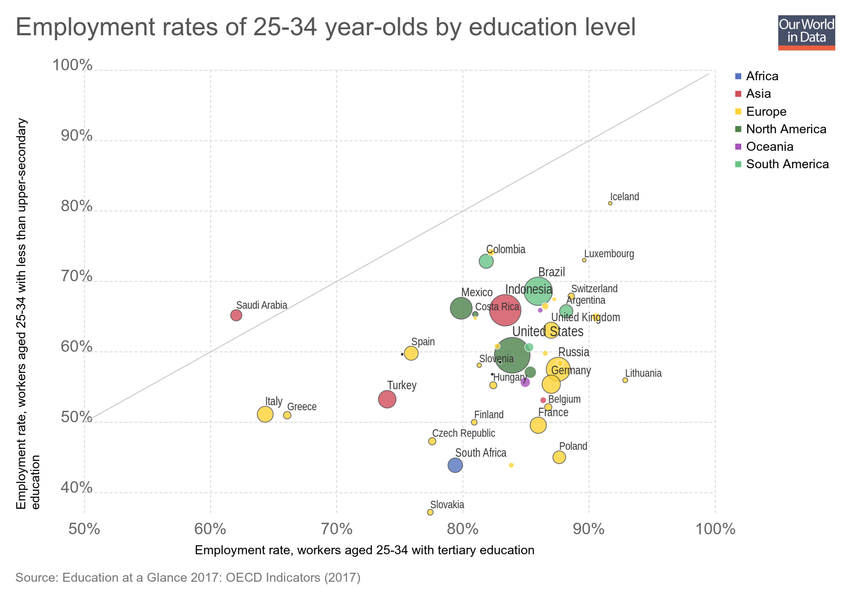
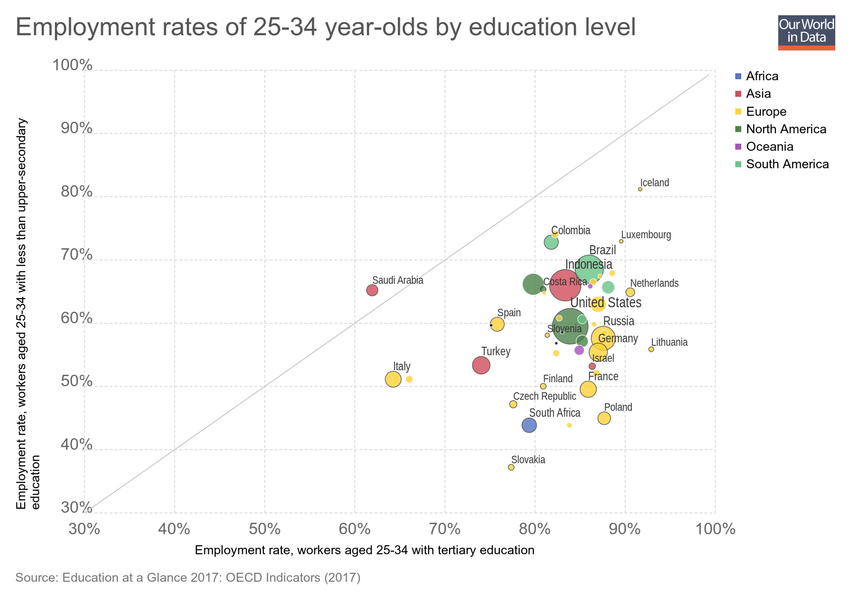
Updating chart employment-rates-with-tertiary-vs-below-upper-secondary-education

diff --git a/grapher/employment-rates-with-tertiary-vs-below-upper-secondary-education.html b/grapher/employment-rates-with-tertiary-vs-below-upper-secondary-education.html
@@ -1,4 +1,4 @@
-<!doctype html><html><head><meta name="viewport" content="width=device-width, initial-scale=1" /><title>Employment rates of 25-34 year-olds by education level - Our World in Data</title><meta name="description" content="An interactive visualization from Our World in Data." /><link rel="canonical" href="https://ourworldindata.org/grapher/employment-rates-with-tertiary-vs-below-upper-secondary-education" /><meta property="fb:app_id" content="1149943818390250" /><meta property="og:url" content="https://ourworldindata.org/grapher/employment-rates-with-tertiary-vs-below-upper-secondary-education" /><meta property="og:title" content="Employment rates of 25-34 year-olds by education level" /><meta property="og:description" content="An interactive visualization from Our World in Data." /><meta property="og:image" content="https://ourworldindata.org/grapher/exports/employment-rates-with-tertiary-vs-below-upper-secondary-education.png?v=14" /><meta property="og:image:width" content="850" /><meta property="og:image:height" content="600" /><meta property="og:site_name" content="Our World in Data" /><meta name="twitter:card" content="summary_large_image" /><meta name="twitter:site" content="@OurWorldInData" /><meta name="twitter:creator" content="@OurWorldInData" /><meta name="twitter:title" content="Employment rates of 25-34 year-olds by education level" /><meta name="twitter:description" content="An interactive visualization from Our World in Data." /><meta name="twitter:image" content="https://ourworldindata.org/grapher/exports/employment-rates-with-tertiary-vs-below-upper-secondary-education.png?v=14" /><style>
+<!doctype html><html><head><meta name="viewport" content="width=device-width, initial-scale=1" /><title>Employment rates of 25-34 year-olds by education level - Our World in Data</title><meta name="description" content="An interactive visualization from Our World in Data." /><link rel="canonical" href="https://ourworldindata.org/grapher/employment-rates-with-tertiary-vs-below-upper-secondary-education" /><meta property="fb:app_id" content="1149943818390250" /><meta property="og:url" content="https://ourworldindata.org/grapher/employment-rates-with-tertiary-vs-below-upper-secondary-education" /><meta property="og:title" content="Employment rates of 25-34 year-olds by education level" /><meta property="og:description" content="An interactive visualization from Our World in Data." /><meta property="og:image" content="https://ourworldindata.org/grapher/exports/employment-rates-with-tertiary-vs-below-upper-secondary-education.png?v=15" /><meta property="og:image:width" content="850" /><meta property="og:image:height" content="600" /><meta property="og:site_name" content="Our World in Data" /><meta name="twitter:card" content="summary_large_image" /><meta name="twitter:site" content="@OurWorldInData" /><meta name="twitter:creator" content="@OurWorldInData" /><meta name="twitter:title" content="Employment rates of 25-34 year-olds by education level" /><meta name="twitter:description" content="An interactive visualization from Our World in Data." /><meta name="twitter:image" content="https://ourworldindata.org/grapher/exports/employment-rates-with-tertiary-vs-below-upper-secondary-education.png?v=15" /><style>
         html, body {
             height: 100%;
             margin: 0;
@@ -20,8 +20,8 @@
         }
     </style><noscript><style>
                     figure { display: none !important; }
-                </style></noscript><link rel="stylesheet" href="https://ourworldindata.org/grapher/assets/commons.bundle.b9f051796dbbbb7e5139.css" /><link rel="preload" href="/grapher/data/variables/97775+97778+72+123.json?v=14" as="fetch" crossorigin /></head><body class="singleChart"><figure data-grapher-src="/grapher/employment-rates-with-tertiary-vs-below-upper-secondary-education"></figure><noscript id="fallback"><img src="/grapher/exports/employment-rates-with-tertiary-vs-below-upper-secondary-education.svg" /><p>Interactive visualization requires JavaScript</p></noscript><script src="https://cdn.polyfill.io/v2/polyfill.min.js?features=es6,fetch"></script><script src="https://ourworldindata.org/grapher/assets/commons.bundle.b9f051796dbbbb7e5139.js"></script><script src="https://ourworldindata.org/grapher/assets/charts.bundle.b9f051796dbbbb7e5139.js"></script><script>
-        var jsonConfig = {"id":2949,"map":{"projection":"World","colorSchemeLabels":[],"colorSchemeValues":[],"customNumericColors":[],"customCategoryColors":{},"customCategoryLabels":{},"customHiddenCategories":{}},"tab":"chart","slug":"employment-rates-with-tertiary-vs-below-upper-secondary-education","type":"ScatterPlot","title":"Employment rates of 25-34 year-olds by education level","xAxis":{"max":100,"min":50,"scaleType":"linear"},"yAxis":{"max":100,"min":50,"scaleType":"linear"},"version":14,"hasMapTab":false,"stackMode":"absolute","dimensions":[{"display":{"name":"Employment rate, workers aged 25-34 with less than upper-secondary education"},"property":"y","variableId":97775},{"display":{"name":"Employment rate, workers aged 25-34 with tertiary education"},"property":"x","variableId":97778},{"display":{},"property":"size","variableId":72},{"display":{},"property":"color","variableId":123}],"hasChartTab":true,"isPublished":true,"selectedData":[],"comparisonLine":{},"hideTitleAnnotation":true};
+                </style></noscript><link rel="stylesheet" href="https://ourworldindata.org/grapher/assets/commons.bundle.b9f051796dbbbb7e5139.css" /><link rel="preload" href="/grapher/data/variables/97775+97778+72+123.json?v=15" as="fetch" crossorigin /></head><body class="singleChart"><figure data-grapher-src="/grapher/employment-rates-with-tertiary-vs-below-upper-secondary-education"></figure><noscript id="fallback"><img src="/grapher/exports/employment-rates-with-tertiary-vs-below-upper-secondary-education.svg" /><p>Interactive visualization requires JavaScript</p></noscript><script src="https://cdn.polyfill.io/v2/polyfill.min.js?features=es6,fetch"></script><script src="https://ourworldindata.org/grapher/assets/commons.bundle.b9f051796dbbbb7e5139.js"></script><script src="https://ourworldindata.org/grapher/assets/charts.bundle.b9f051796dbbbb7e5139.js"></script><script>
+        var jsonConfig = {"id":2949,"map":{"projection":"World","colorSchemeLabels":[],"colorSchemeValues":[],"customNumericColors":[],"customCategoryColors":{},"customCategoryLabels":{},"customHiddenCategories":{}},"tab":"chart","slug":"employment-rates-with-tertiary-vs-below-upper-secondary-education","type":"ScatterPlot","title":"Employment rates of 25-34 year-olds by education level","xAxis":{"max":100,"min":30,"scaleType":"linear"},"yAxis":{"max":100,"min":30,"scaleType":"linear"},"version":15,"hasMapTab":false,"stackMode":"absolute","dimensions":[{"display":{"name":"Employment rate, workers aged 25-34 with less than upper-secondary education"},"property":"y","variableId":97775},{"display":{"name":"Employment rate, workers aged 25-34 with tertiary education"},"property":"x","variableId":97778},{"display":{},"property":"size","variableId":72},{"display":{},"property":"color","variableId":123}],"hasChartTab":true,"isPublished":true,"selectedData":[],"comparisonLine":{},"hideTitleAnnotation":true};
         var figure = document.getElementsByTagName("figure")[0];
         try {
             window.App = {};
